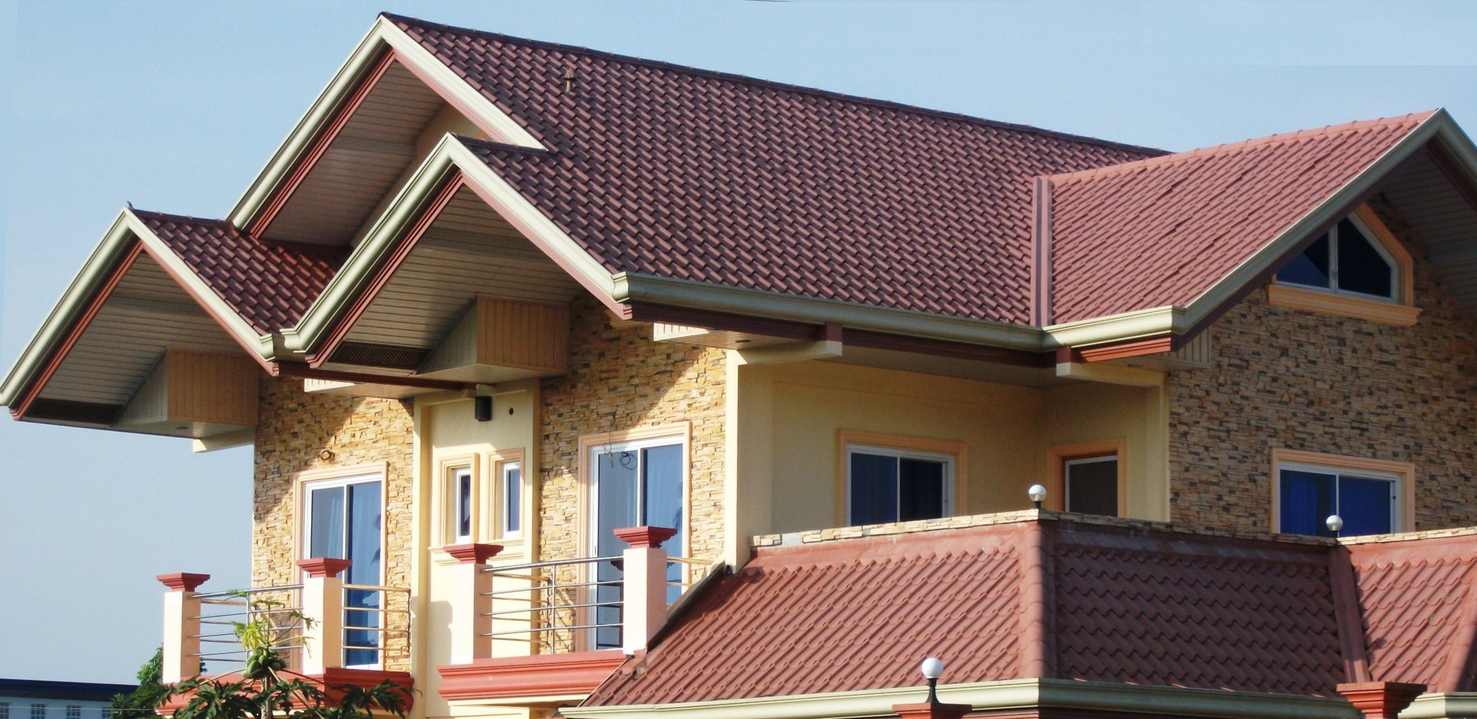
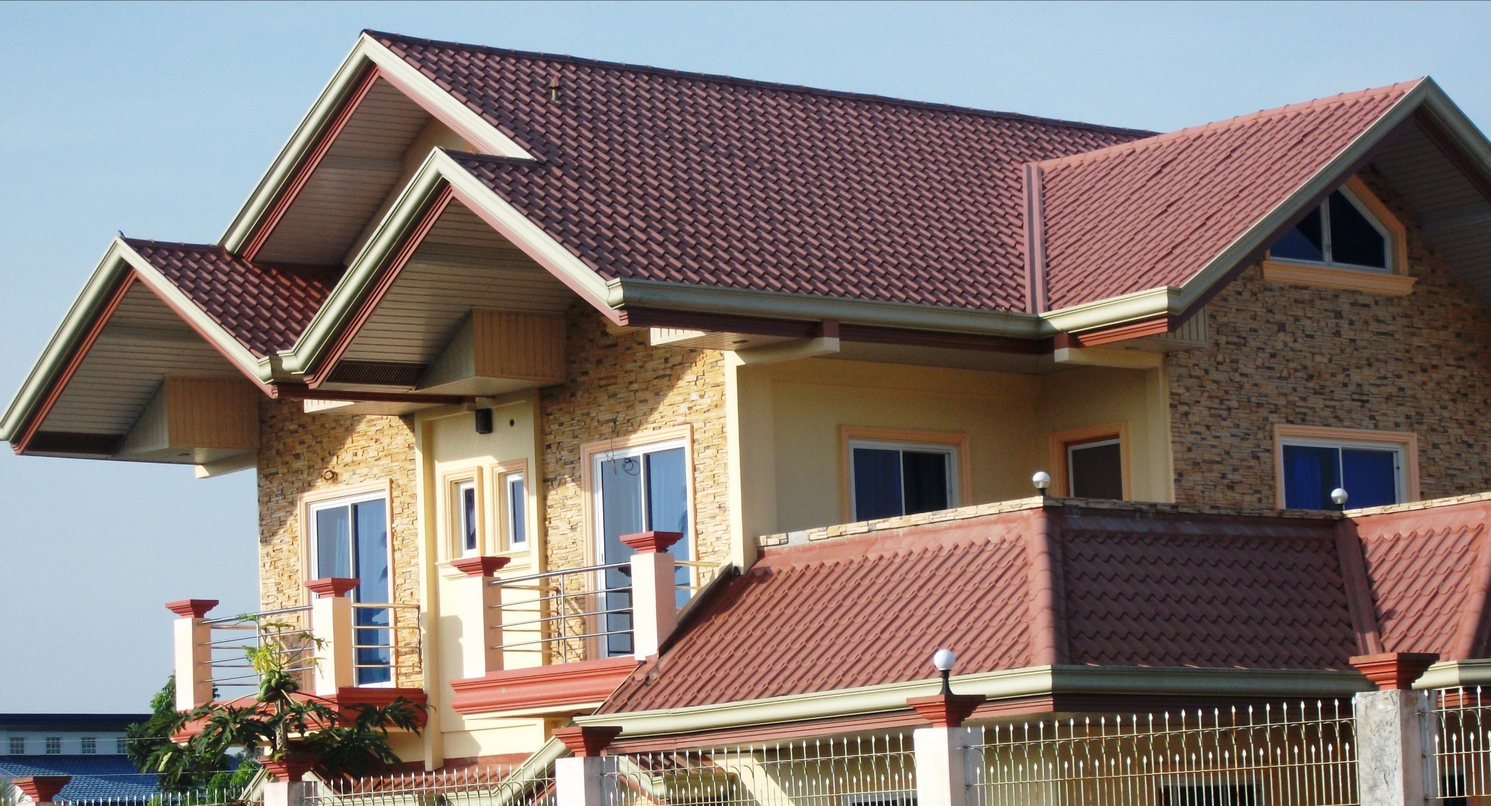
Changed carousel photos

diff --git a/assets/sass/john-static-website/_carousel.scss b/assets/sass/john-static-website/_carousel.scss
@@ -5,7 +5,7 @@
 .carousel-item {
   height: 100vh;
   min-height: 300px;
-  background: no-repeat center center scroll;
+  background: no-repeat left center scroll;
   -webkit-background-size: cover;
   -moz-background-size: cover;
   -o-background-size: cover;
@@ -14,6 +14,6 @@
 
 @include media-breakpoint-down(md) {
   .carousel-item { 
-    height: 75vh;
+    height: 70vh;
   }
 }
